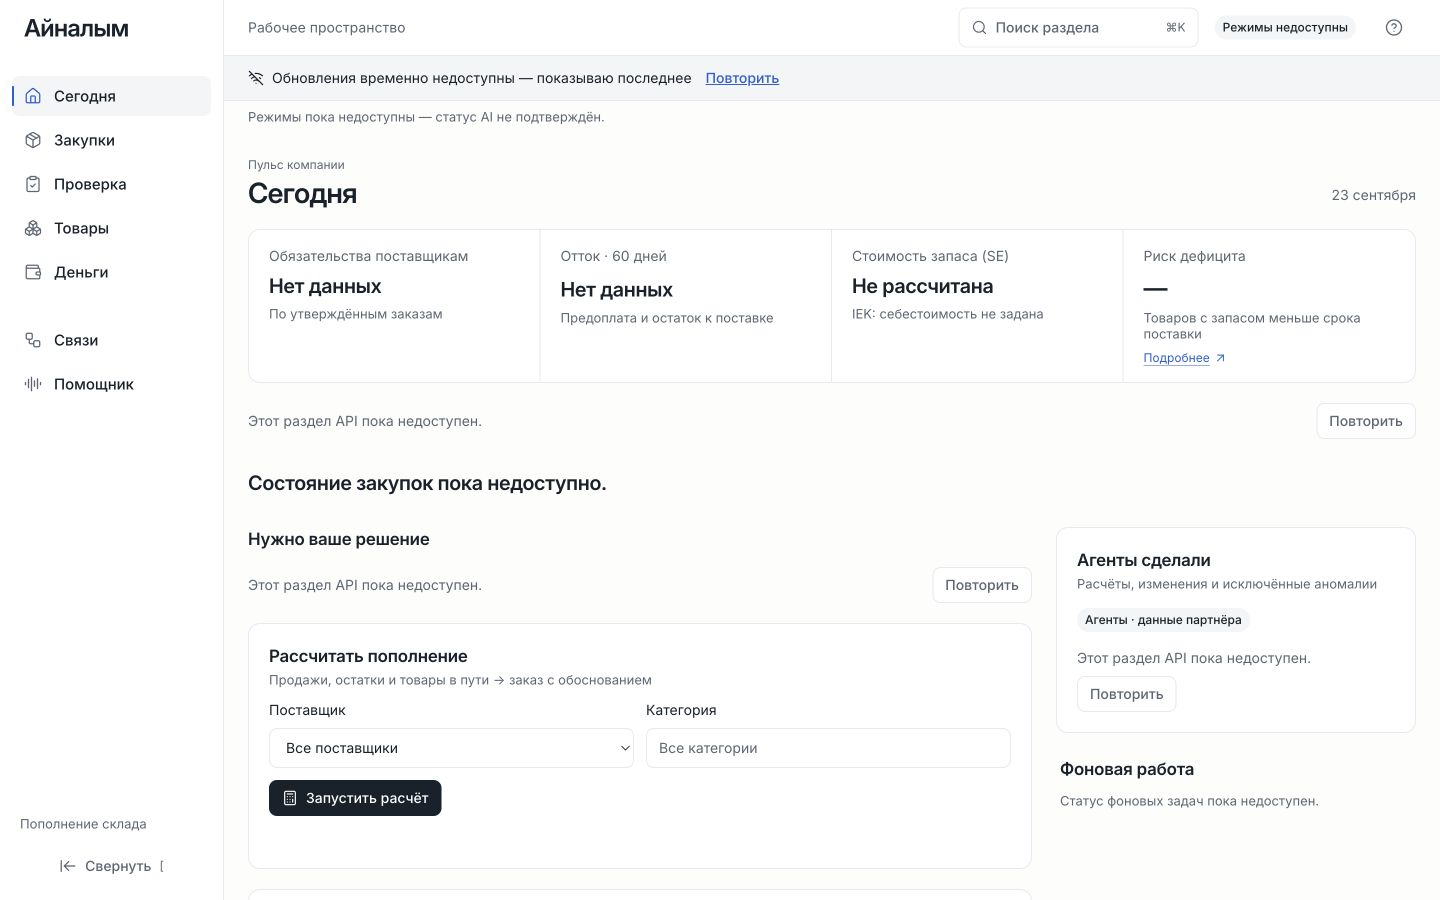
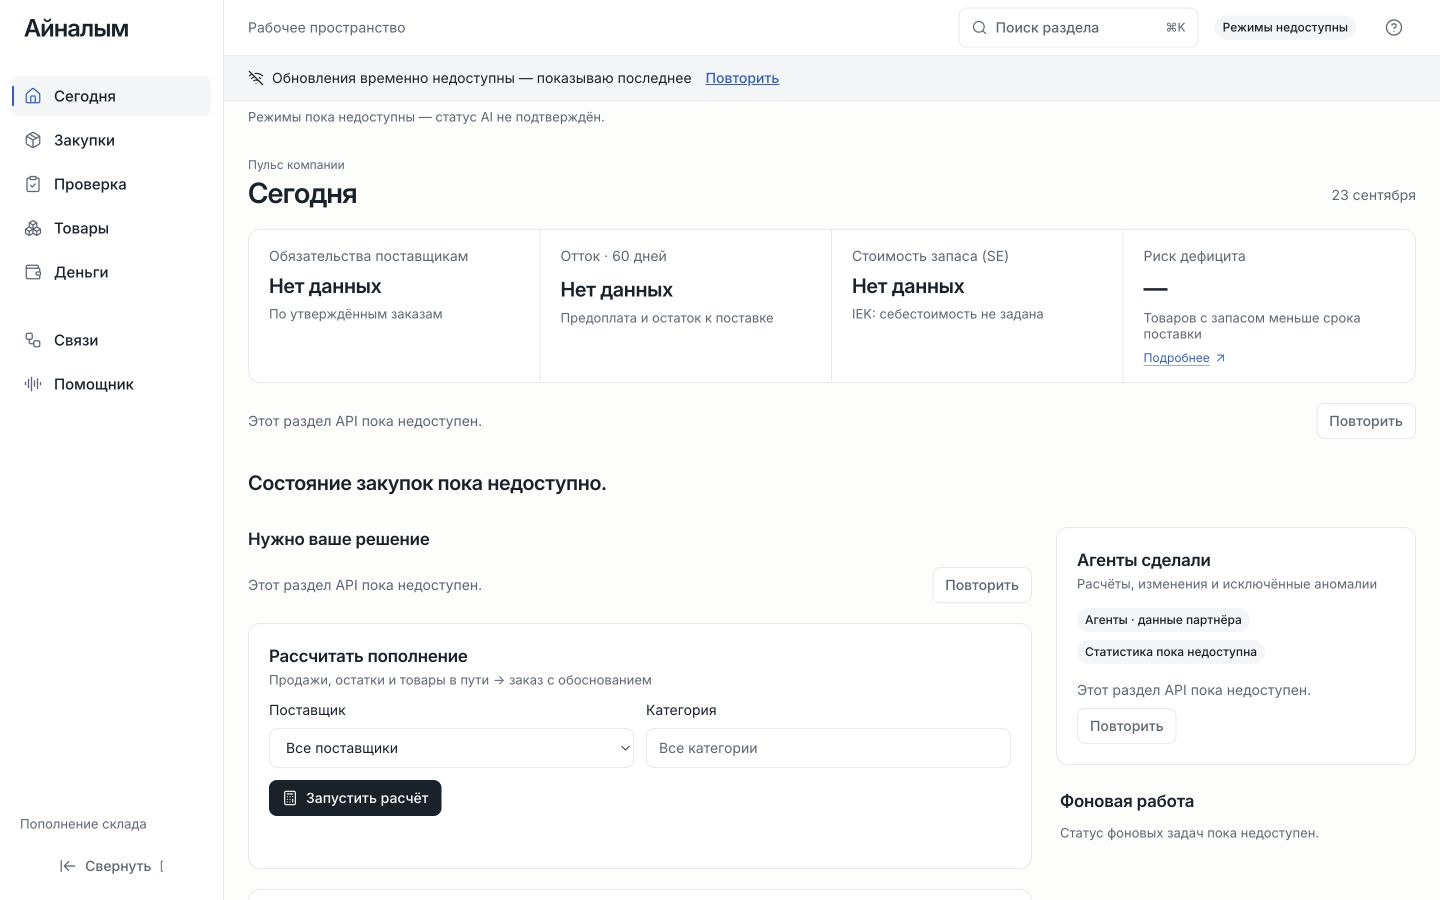
feat(ui): finalize Pulse verification evidence

Changed region(s): [[0.7188, 0.84, 0.9062, 0.9333], [0.75, 0.7156, 0.9062, 0.7778], [0.5938, 0.3111, 0.6875, 0.3422]]

diff --git a/src/app/(app)/money/MoneyPage.tsx b/src/app/(app)/money/MoneyPage.tsx
@@ -17,7 +17,7 @@ export function MoneyPage({ initial }: { initial?: MoneyView }) {
     <section className={styles.summary} aria-label="Денежные показатели"><div><span>Денег на счёте</span>{money.loading ? <Skeleton lines={2} /> : data?.cash?.length ? data.cash.map(row => <strong key={row.currency}>{formatMoney(row)}</strong>) : <strong className={styles.word}>{ready ? "Остатки не заданы" : "Нет данных"}</strong>}<p>По доступным записям</p></div><div><span>К оплате · 60 дней</span>{money.loading ? <Skeleton lines={2} /> : outTotals.length ? outTotals.map(row => <strong key={row.currency}>{formatMoney(row)}</strong>) : <strong className={styles.word}>{ready ? "Не запланировано" : "Нет данных"}</strong>}<p>По утверждённым заказам</p></div><div><span>Стоимость запаса (SE)</span>{money.loading ? <Skeleton lines={2} /> : <strong className={!data?.stock_value ? styles.word : undefined}>{data?.stock_value ? formatMoney(data.stock_value) : ready ? "Не рассчитана" : "Нет данных"}</strong>}<p>{data?.stock_value ? `Стоимость известна для ${new Intl.NumberFormat("ru-RU", { style: "percent", maximumFractionDigits: 1 }).format(data.stock_value.cost_known_share)} товарных позиций` : "IEK: себестоимость не задана"}</p></div></section>
     <div className={styles.columns}><section className={styles.panel}><div className={styles.sectionHead}><h2>График платежей</h2><CalendarDays size={18} /></div><p className={styles.meta}>Предоплата при утверждении и остаток к дате поставки. Каждая валюта отдельно.</p>
       {money.loading ? <Skeleton lines={5} /> : groups.size ? <div className={styles.schedule}>{[...groups].map(([day, rows]) => <section key={day} className={styles.day}><h3><time dateTime={day}>{formatDate(day)}</time></h3><ul>{rows.map((row,index) => <li key={`${row.po_id}-${row.kind}-${index}`}><div><Link href={`/orders/${encodeURIComponent(row.po_id)}`}>{row.po_id}</Link><p className={styles.meta}>{row.kind === "supplier_prepayment" ? "Предоплата поставщику" : row.kind === "supplier_balance" ? "Остаток к поставке" : "Обязательство поставщику"}</p></div><strong>{formatMoney(row)}</strong></li>)}</ul></section>)}</div> : <EmptyState>{ready ? "На ближайшие 60 дней платежи не запланированы. Обязательства появятся после утверждения заказов." : "График пока недоступен."}</EmptyState>}
-    </section><aside className={styles.panel}><div className={styles.sectionHead}><h2>Что требует внимания</h2><AlertTriangle size={18} /></div>{money.loading ? <Skeleton lines={3} /> : data?.risks.length ? <ul className={styles.risks}>{data.risks.map((risk,index) => <li key={typeof risk === "string" ? index : risk.id ?? risk.code ?? index}><p>{typeof risk === "string" ? risk : risk.label_ru ?? risk.title ?? risk.message ?? risk.reason ?? "Риск без описания"}</p>{typeof risk === "object" && risk.count !== undefined && <Chip tone="warning">{risk.count} товаров</Chip>}{typeof risk === "object" && risk.po_id && <Link href={`/orders/${encodeURIComponent(risk.po_id)}`}>{risk.po_id}</Link>}</li>)}</ul> : <EmptyState>{ready ? "В доступных записях риски не отмечены." : "Риски пока недоступны."}</EmptyState>}<p className={styles.footnote}>Неизвестная себестоимость не считается нулевой. Неполные суммы отмечены отдельно.</p></aside></div>
+    </section><aside className={styles.panel}><div className={styles.sectionHead}><h2>Что требует внимания</h2><AlertTriangle size={18} /></div>{money.loading ? <Skeleton lines={3} /> : data?.risks.length ? <ul className={styles.risks}>{data.risks.map((risk,index) => <li key={typeof risk === "string" ? index : risk.id ?? risk.code ?? index}><p>{typeof risk === "string" ? risk : risk.label_ru ?? risk.title ?? risk.message ?? risk.reason ?? "Риск без описания"}</p>{typeof risk === "object" && risk.count !== undefined && <Chip tone="warning">Количество: {risk.count}</Chip>}{typeof risk === "object" && risk.po_id && <Link href={`/orders/${encodeURIComponent(risk.po_id)}`}>{risk.po_id}</Link>}</li>)}</ul> : <EmptyState>{ready ? "В доступных записях риски не отмечены." : "Риски пока недоступны."}</EmptyState>}<p className={styles.footnote}>Неизвестная себестоимость не считается нулевой. Неполные суммы отмечены отдельно.</p></aside></div>
     <section className={styles.panel} aria-labelledby="supplier-money"><div className={styles.sectionHead}><h2 id="supplier-money">Обязательства по поставщикам</h2><Link href="/replenishment">Открыть расчёт</Link></div>{money.loading ? <Skeleton lines={3} /> : committed.length ? <div className={styles.tableWrap}><table><thead><tr><th>Поставщик</th><th>Сумма обязательств</th><th>Позиций с известной стоимостью</th><th>Основание</th></tr></thead><tbody>{committed.map(row => <tr key={`${row.supplier_id}-${row.currency}`}><td><span>{row.supplier_id}</span></td><td><strong>{row.cost_known_lines === 0 ? "Себестоимость не задана" : formatMoney(row)}</strong>{row.cost_known_lines > 0 && row.cost_known_lines < row.lines && <p className={styles.meta}>Неполная сумма</p>}</td><td>{row.cost_known_lines} из {row.lines}</td><td>Утверждённые заказы</td></tr>)}</tbody></table></div> : <EmptyState>{ready ? "Утверждённых заказов пока нет — денежные обязательства ещё не возникли." : "Обязательства пока недоступны."}</EmptyState>}</section>
     {data && <TruthAxisLabels axes={resultAxes(data)} />}
   </div>;

diff --git a/docs/evidence/ui/today_verification.md b/docs/evidence/ui/today_verification.md
@@ -1,6 +1,6 @@
 # Pulse verification — L4a
 
-Production build, local port 3101; browser screenshots are real API-unavailable state, not populated mocks.
+Production build, local port 3101. Pulse cold-open shows the real unavailable L1 state; the world feed and money page read real persisted partner-derived data. No browser response mocks.
 - `today_1440_unavailable.png`: 1440 × 900; document scrollWidth 1440; Inter loaded.
 - `today_390_unavailable.png`: 390 × 844; document scrollWidth 390; visible links/buttons/inputs/selects/summary targets all at least 44 × 44 px.
 - Browser: palette opens, native modal focus moves to search, Escape restores the trigger; phone calculation POST returns the real unavailable message; compose expands its editable form.
@@ -15,3 +15,5 @@ Declared-token contrast computed with sRGB relative luminance: ink/white 16.29:1
 Latest bounded review: `L4A_REVIEW_FOLLOWUP.md` is GREEN for the four original findings plus disappearing-record/disclosure focus. Full integration and timing are outside that review.
 
 L6 integration on rules-only `data/ui-a-qa.sqlite`: loaded canonical partner exports and the 45 canonical world fixtures; no custom business fixtures. Play produced one processed event and one proposal; focus remained on the Play button while the next rows changed without reload. Ledger rows remained zero because L1 ledger is still a seam. Compose in-transit +100 changed the fixture SKU total from 30000 to 30100; submitting the same event again showed «Уже обработано — без эффекта» and total remained 30100. Screenshot: `today_feed_replay.png`. These are isolated QA effects, not approved orders or supplier sends.
+
+Final browser pass: `/` redirected to `/today`; 1440×900 and 390×844 Pulse captures refreshed on the integrated build. No horizontal overflow; the visible phone targets met 44×44 px. A second canonical event was played from the phone; the next feed rows updated while focus remained on Play (`today_feed_phone.png`). The catalogue navigation states the actual missing capability. `money_1728_partner.png` shows the money API over the isolated ETL database at 1728×920, with no horizontal overflow. `money_1728_unavailable.png` retains the earlier organization-not-found state before the upstream seed landed. Viewport restored after QA.

diff --git a/docs/agent_handoffs/L4A_CHECKPOINT.md b/docs/agent_handoffs/L4A_CHECKPOINT.md
@@ -1,9 +1,8 @@
-# L4a checkpoint 7 — landed feed + cross-lane routes
-Done: shell, labels, Pulse, all state mechanisms, money; independent approval/labels/focus review GREEN within its stated scope.
-Done: L6 rows response, structured numeric compose, worker failure honesty; L4b /replenishment and /orders links; absent SKU catalogue has an explicit unavailable notice.
-Checks: UI passed=29 failed=0; scoped ESLint, TypeScript, production build pass.
-Evidence: real Play processed one fixture event; focus stayed on Play; +100 compose applied once and replay had no additional effect (isolated rules database).
-Undone: today/queue/modes/state/calc/ledger routes + persistent ledger still absent at merged main ed943f1; full integration remains externally-unverified. Gate: RED.
-Resumable: merge L1, use its corrected isolated reset, verify Play→persisted ledger→queue without reload; confirm result axes and proposal versions.
-Review: L4A_REVIEW_FOLLOWUP.md; precise reset and integration findings: L4A_INTEGRATION_FINDINGS.md.
-sha: predecessor adc7cdb; this feed checkpoint is the commit owning this file; main merged through ed943f1.
+# L4a checkpoint 8 — final renders and evidence
+Done: tier 1 + tier 2 implementation, response-bound labels/approvals, focus-preserving decisions, real L6 compose/play/replay, L4b route links.
+Done: final Pulse 1440×900 + 390×844 captures, phone feed, money 1728×920, bounded independent review and all counterexample fixes.
+Checks: UI passed=29 failed=0; scoped lint + TypeScript + production build pass; browser no horizontal overflow at the three target widths.
+Evidence: docs/evidence/ui/today_verification.md and L4A_REVIEW_FOLLOWUP.md; source/path manifest and closeout follow.
+Undone: full Play→ledger→queue acceptance, timing/CLS/screen-reader measurements; L1 routes/persisted ledger unavailable. Gate: RED.
+Resumable: merge L1 and its corrected custom-path reset; run rules-only canonical event through Pulse and inspect persisted ledger/queue without reload.
+sha: prior implementation f146d90; final evidence checkpoint = commit owning this file; main merged through ed943f1.
